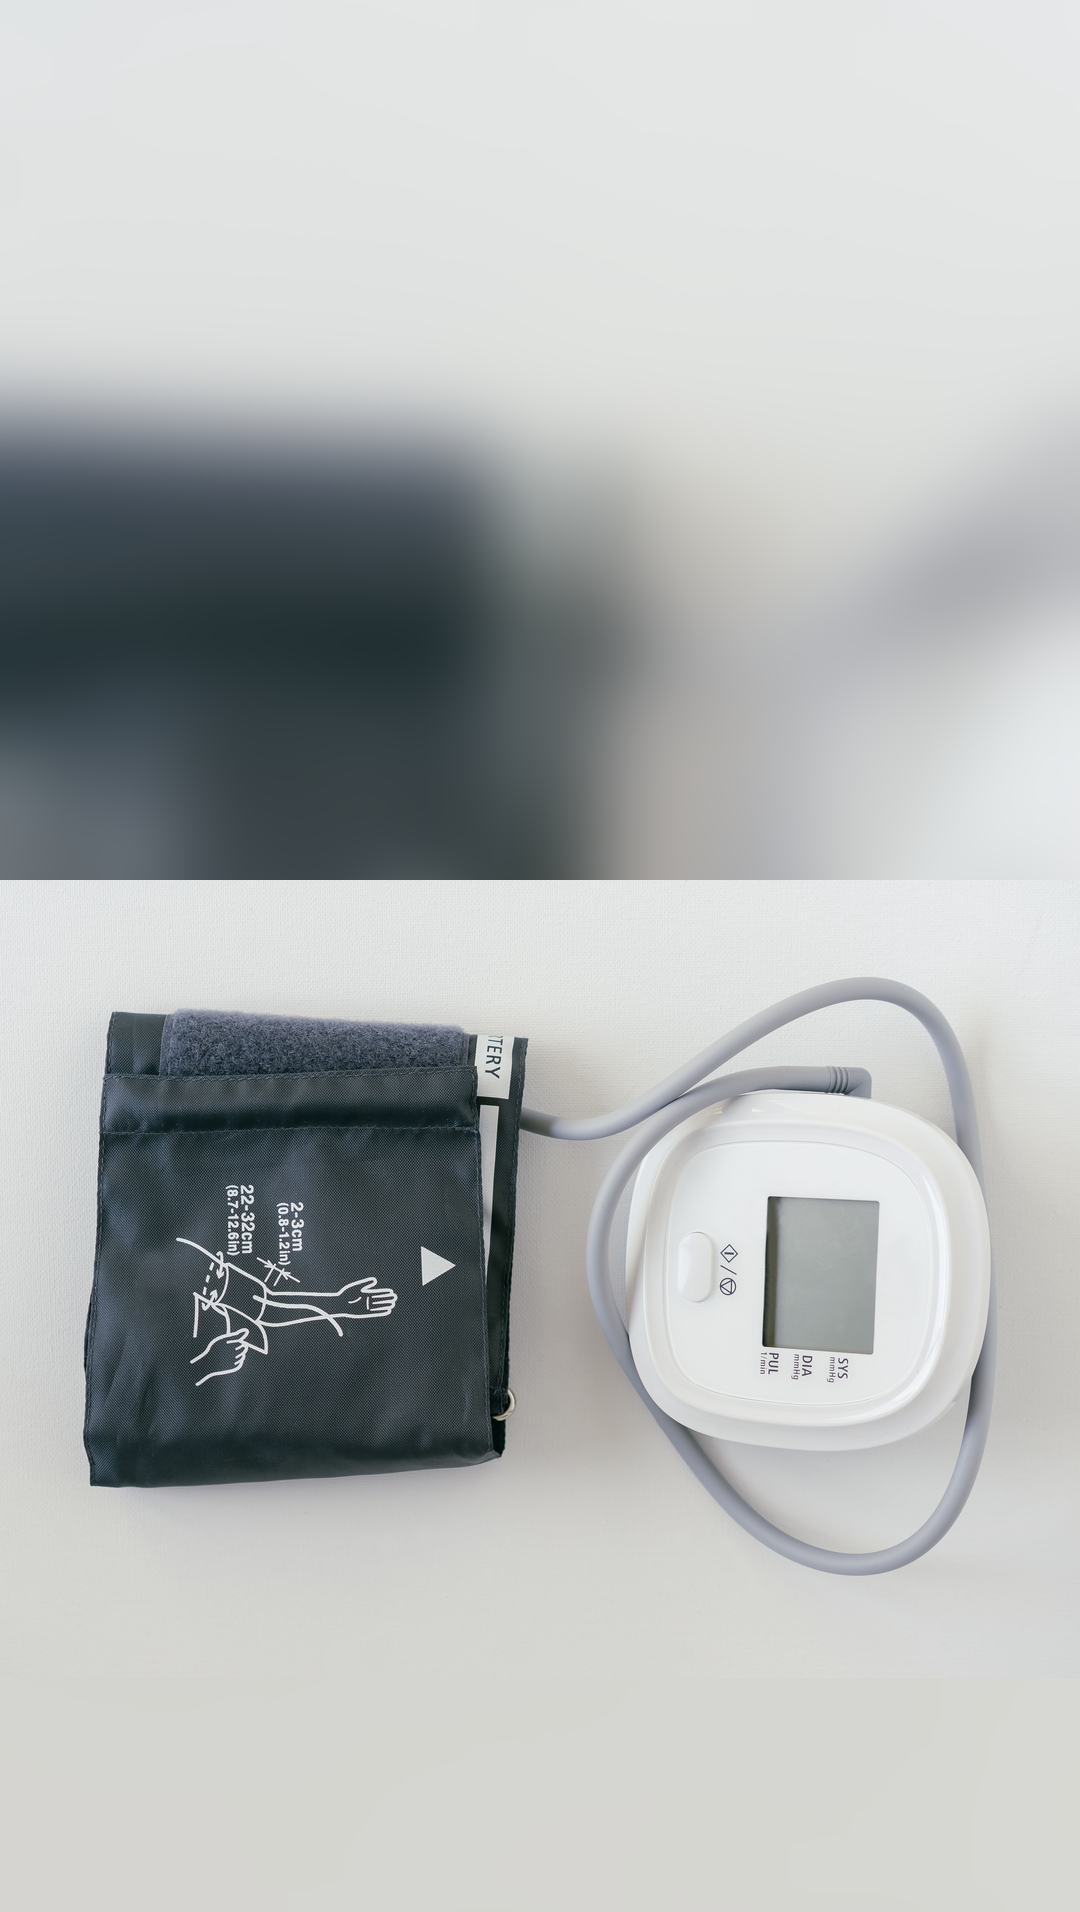
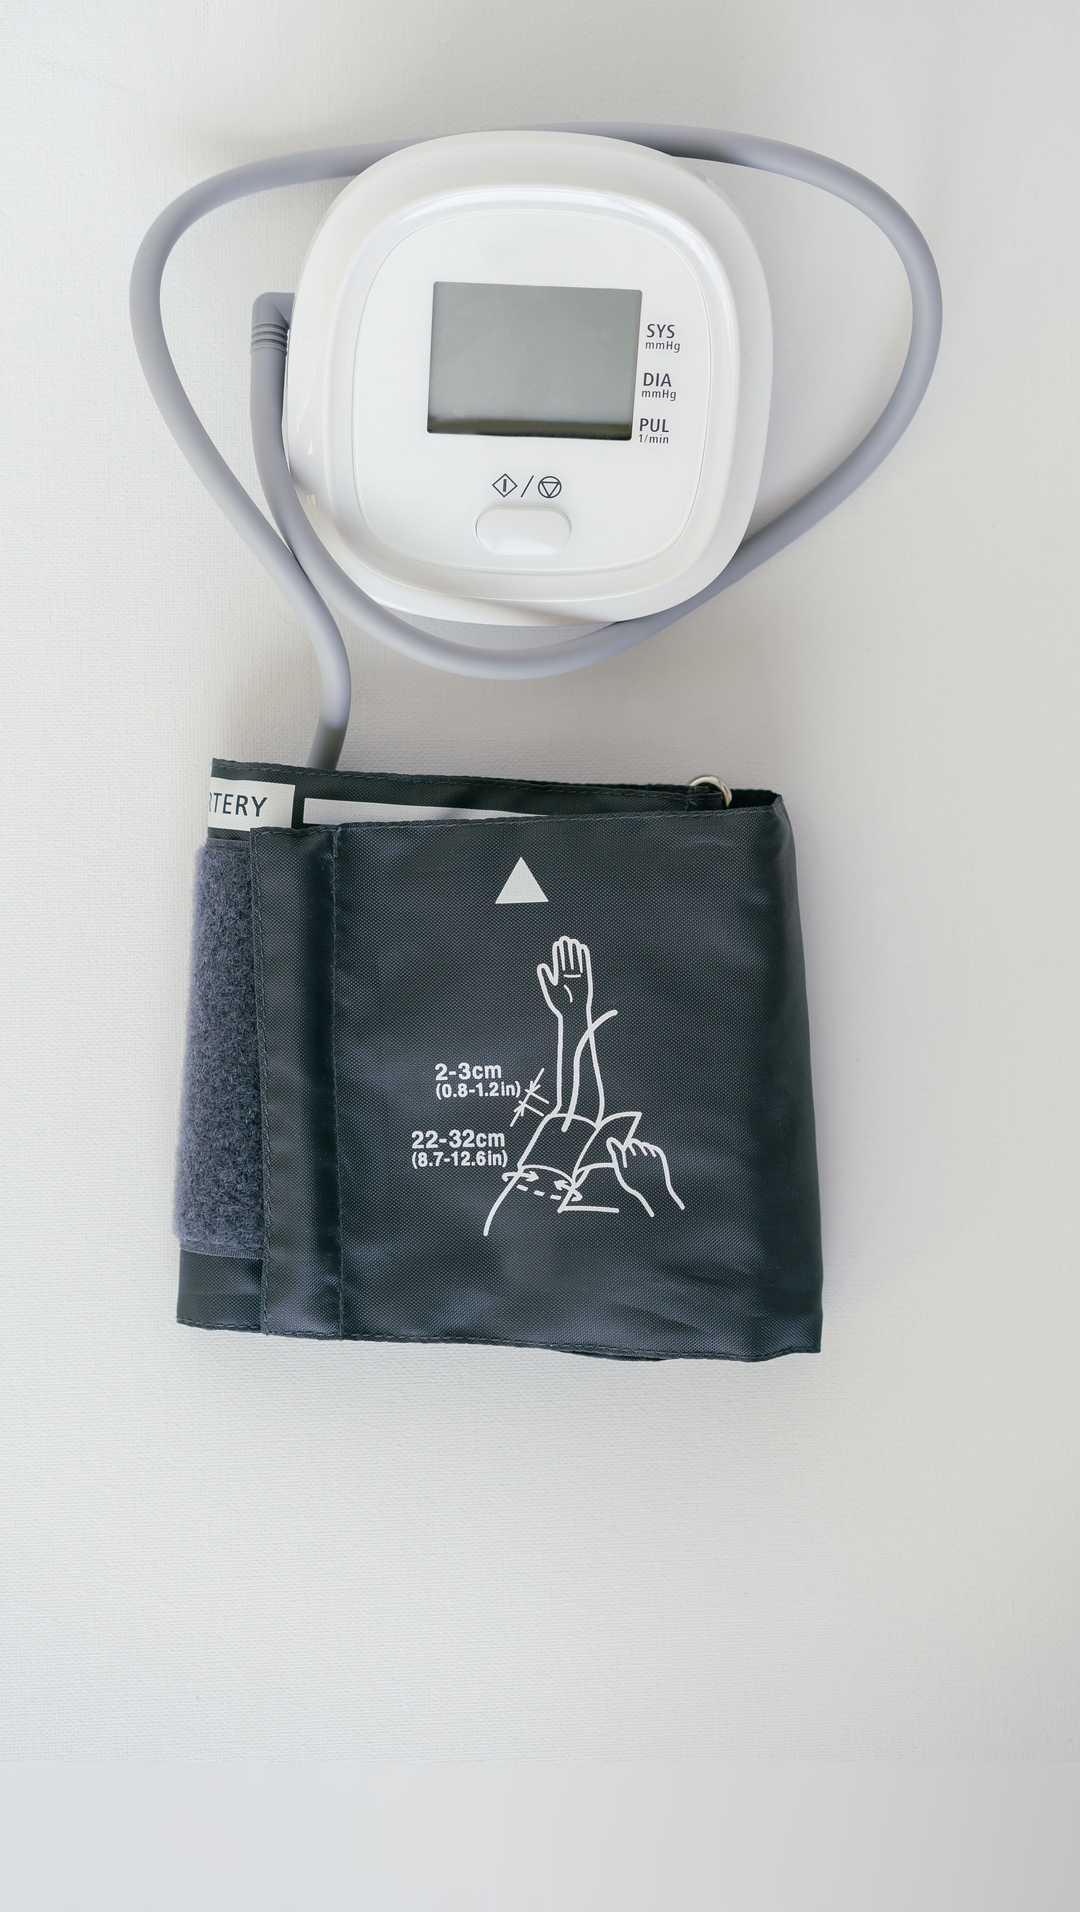
027c: tansiyon aleti dikey görsel
Claude-Session: https://claude.ai/code/session_01PodALcPN1ANwmBjyvEPc3h

diff --git a/RELEASE.md b/RELEASE.md
@@ -29,7 +29,7 @@
 | 028b | 2026-11-25 | Kışın D vitamini — Kuju sesli sürüm | 45,8 sn | 028 ile aynı görsel; ElevenLabs Kuju (eleven_v4), sahne 3'te enlem 'say' ile okunuyor | contact ✓ kapak ✓ | — | 028 ile aynı kaynaklar. Kuju yalnızca kullanıcı istediği için. |
 | 028c | 2026-11-25 | Kışın D vitamini — Özen anlatımlı sürüm | 45,8 sn | Sahne 1–2 ve 7'de Özen (InfiniteTalk, Kuju sesi, 'AI ile oluşturuldu'), ara sahneler 028 ile aynı | contact ✓ kapak ✓ | — | Özen yalnızca kullanıcı istediği için. Pod RTX 4090 ($0.89/sa) ~25 dk, terminate edildi. Anahtar kare: ozen_yuruyus_B_son (bahar yeşilliği). |
 | 027b | 2026-11-25 | Soğuk duş klasik akış — Kuju sesli sürüm | 39,5 sn | 027 ile aynı görsel (tek Canva görseli); ElevenLabs Kuju (eleven_v4), %29 'say' ile okunuyor; ambient kapalı | contact ✓ | — | 027 ile aynı kaynaklar. Ses pod üzerinden indirildi (sandbox engelli), pod silindi. |
-| 027c | 2026-11-25 | Soğuk duş klasik akış — Kuju sesli, çeşitli görsel | 39,5 sn | 027b ile aynı ses/metin; 5 farklı Canva görseli (duş başlığı, musluk kolu, hasta, ofis masası, kronometre); ambient kapalı | contact ✓, kuyruk −91 dB | — | Kaynaklar 027 ile aynı. 'Dikkat' sahnesi: Pexels (Mikhail Nilov, serbest lisans) tansiyon aleti fotoğrafı, bulanık arka planla dikey kadraja yerleştirildi. |
+| 027c | 2026-11-25 | Soğuk duş klasik akış — Kuju sesli, çeşitli görsel | 39,5 sn | 027b ile aynı ses/metin; 5 farklı Canva görseli (duş başlığı, musluk kolu, hasta, ofis masası, kronometre); ambient kapalı | contact ✓, kuyruk −91 dB | — | Kaynaklar 027 ile aynı. 'Dikkat' sahnesi: Pexels (Mikhail Nilov, serbest lisans) tansiyon aleti fotoğrafı, dikey sürümü kullanıldı (kullanıcı yeniden kaydetti), tam dikey kadraj. |
 
 ## Teslim öncesi kontrol listesi
 - [ ] Her sayı kaynakla eşleşiyor, öneri türü doğru
